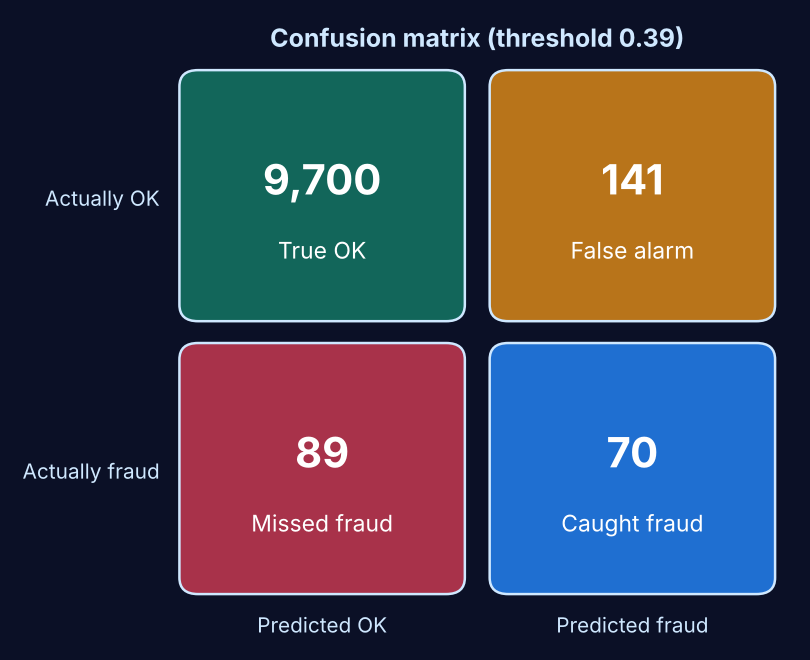
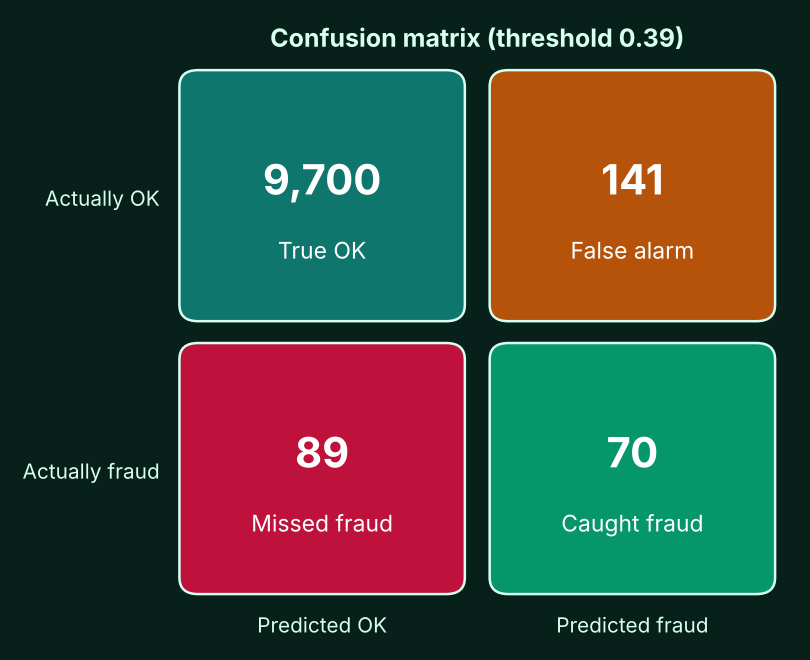
themes

diff --git a/app.py b/app.py
@@ -18,44 +18,64 @@ st.set_page_config(page_title="UPI Fraud Detector", page_icon="🛡")
 
 st.markdown("""
 <style>
+/* Secure-fintech theme: emerald + gold on deep green-black */
 .stApp {
     background:
-        radial-gradient(circle at 15% 20%, rgba(0, 240, 255, 0.16), transparent 40%),
-        radial-gradient(circle at 85% 75%, rgba(168, 85, 247, 0.20), transparent 40%),
-        linear-gradient(160deg, #050816, #0b1026 50%, #120a2e);
+        radial-gradient(circle at 12% 18%, rgba(0, 229, 160, 0.14), transparent 42%),
+        radial-gradient(circle at 88% 82%, rgba(255, 183, 3, 0.10), transparent 40%),
+        linear-gradient(165deg, #030d0a, #06201a 55%, #0a1a14);
     background-attachment: fixed;
 }
+/* dotted pattern */
 .stApp::before {
     content: ""; position: fixed; inset: 0; pointer-events: none;
-    background-image:
-        linear-gradient(rgba(0, 240, 255, 0.06) 1px, transparent 1px),
-        linear-gradient(90deg, rgba(0, 240, 255, 0.06) 1px, transparent 1px);
-    background-size: 44px 44px;
-    animation: gridMove 12s linear infinite;
+    background-image: radial-gradient(rgba(0, 229, 160, 0.22) 1px, transparent 1.4px);
+    background-size: 28px 28px;
+    opacity: 0.55;
 }
-@keyframes gridMove { from { background-position: 0 0; } to { background-position: 44px 44px; } }
+/* security scan line moving down the page */
+.stApp::after {
+    content: ""; position: fixed; left: 0; right: 0; top: -6vh; height: 90px; pointer-events: none;
+    background: linear-gradient(180deg, transparent, rgba(0, 229, 160, 0.10), transparent);
+    border-bottom: 1px solid rgba(0, 229, 160, 0.30);
+    animation: scan 7s linear infinite;
+}
+@keyframes scan { from { transform: translateY(0); } to { transform: translateY(112vh); } }
 [data-testid="stHeader"] { background: transparent; }
+
 .banner-wrap { text-align: center; margin-bottom: 8px; }
 .banner-wrap img {
-    width: 100%; max-width: 420px; border-radius: 18px;
-    border: 1px solid rgba(0, 240, 255, 0.6);
+    width: 100%; max-width: 420px; border-radius: 20px;
+    border: 1px solid rgba(0, 229, 160, 0.55);
     animation: pulseGlow 3.5s ease-in-out infinite alternate;
 }
 @keyframes pulseGlow {
-    from { box-shadow: 0 0 15px rgba(0, 240, 255, 0.35), 0 0 40px rgba(168, 85, 247, 0.20); }
-    to   { box-shadow: 0 0 35px rgba(0, 240, 255, 0.70), 0 0 80px rgba(168, 85, 247, 0.45); }
+    from { box-shadow: 0 0 14px rgba(0, 229, 160, 0.30), 0 0 40px rgba(255, 183, 3, 0.10); }
+    to   { box-shadow: 0 0 34px rgba(0, 229, 160, 0.65), 0 0 70px rgba(255, 183, 3, 0.25); }
 }
 h1 {
     text-align: center;
-    background: linear-gradient(90deg, #00f0ff, #a855f7, #ff4ecd);
+    background: linear-gradient(90deg, #00e5a0, #7dffd6 45%, #ffd166);
     -webkit-background-clip: text; -webkit-text-fill-color: transparent;
 }
-.tagline { text-align: center; color: #9fb3d9; margin-top: -10px; margin-bottom: 18px; }
-.stButton > button {
-    background: linear-gradient(90deg, #00c6ff, #7b2ff7); color: white; border: none;
-    border-radius: 12px; padding: 10px 28px; font-weight: 700; transition: all 0.25s ease;
+.tagline { text-align: center; color: #a7c7be; margin-top: -10px; margin-bottom: 18px; }
+.status { text-align: center; margin-bottom: 14px; }
+.status span {
+    display: inline-block; padding: 3px 14px; border-radius: 999px; font-size: 0.8rem; font-weight: 700;
+    color: #00e5a0; border: 1px solid rgba(0, 229, 160, 0.5); background: rgba(0, 229, 160, 0.08);
 }
-.stButton > button:hover { transform: translateY(-2px); box-shadow: 0 0 22px rgba(0, 198, 255, 0.8); color: white; }
+
+/* tabs: green accent */
+button[data-baseweb="tab"][aria-selected="true"] { color: #00e5a0 !important; }
+[data-baseweb="tab-highlight"] { background-color: #00e5a0 !important; }
+
+.stButton > button {
+    background: linear-gradient(90deg, #00c98a, #0aa6a0); color: #031510; border: none;
+    border-radius: 12px; padding: 10px 28px; font-weight: 800; transition: all 0.25s ease;
+}
+.stButton > button:hover {
+    transform: translateY(-2px); box-shadow: 0 0 22px rgba(0, 229, 160, 0.75); color: #031510;
+}
 .gauge-box { text-align: center; margin-top: 10px; }
 .gauge {
     width: 170px; height: 170px; border-radius: 50%;
@@ -63,19 +83,19 @@ h1 {
     display: grid; place-items: center; margin: 0 auto 8px auto; box-shadow: 0 0 30px var(--c);
 }
 .gauge-inner {
-    width: 132px; height: 132px; border-radius: 50%; background: #0b1026;
+    width: 132px; height: 132px; border-radius: 50%; background: #06201a;
     display: grid; place-items: center; font-size: 2rem; font-weight: 800; color: var(--c);
 }
 .verdict { text-align: center; font-size: 1.3rem; font-weight: 700; margin: 6px 0 10px 0; }
 .glass {
-    background: rgba(255, 255, 255, 0.06); border: 1px solid rgba(255, 255, 255, 0.14);
+    background: rgba(255, 255, 255, 0.05); border: 1px solid rgba(0, 229, 160, 0.20);
     border-radius: 16px; padding: 16px 20px; backdrop-filter: blur(10px); margin-top: 14px;
 }
 .glass h4 { margin: 0 0 10px 0; }
 .chip {
     display: inline-block; padding: 4px 12px; margin: 3px 4px 3px 0; border-radius: 999px;
     font-size: 0.85rem; font-weight: 600;
-    background: rgba(255, 82, 82, 0.15); color: #ff8a8a; border: 1px solid #ff5252;
+    background: rgba(255, 183, 3, 0.12); color: #ffd166; border: 1px solid #ffb703;
 }
 </style>
 """, unsafe_allow_html=True)
@@ -107,6 +127,9 @@ if BANNER.exists():
                 unsafe_allow_html=True)
 st.title("UPI Fraud Detector")
 st.markdown('<p class="tagline">Score UPI transactions for fraud risk, one at a time or in bulk.</p>',
+            unsafe_allow_html=True)
+
+st.markdown('<div class="status"><span>🟢 MODEL ONLINE · SYNTHETIC DATA</span></div>',
             unsafe_allow_html=True)
 
 tab_check, tab_batch, tab_insights = st.tabs(

diff --git a/charts.py b/charts.py
@@ -5,17 +5,18 @@ import matplotlib.pyplot as plt
 import numpy as np
 from sklearn.metrics import precision_recall_curve
 
-BG, FG = "#0b1026", "#cfe8ff"
-CYAN, PURPLE, PINK, GREEN, RED = "#00f0ff", "#a855f7", "#ff4ecd", "#2ee59d", "#ff4d6d"
+BG, FG = "#08201a", "#d6fff1"
+EMERALD, AMBER, GOLD, GREEN, RED = "#00e5a0", "#ffb703", "#ffd166", "#2ee59d", "#ff4d6d"
 
 
 def _fig(w=6.4, h=4.0):
     fig, ax = plt.subplots(figsize=(w, h))
     fig.patch.set_facecolor(BG)
     ax.set_facecolor(BG)
+    ax.set_axisbelow(True)
     ax.tick_params(colors=FG)
     for s in ax.spines.values():
-        s.set_color("#2a3560")
+        s.set_color("#1f4a3f")
     ax.xaxis.label.set_color(FG)
     ax.yaxis.label.set_color(FG)
     ax.title.set_color(FG)
@@ -25,10 +26,10 @@ def _fig(w=6.4, h=4.0):
 def importance_fig(importances):
     imp = importances.sort_values()
     fig, ax = _fig()
-    ax.barh(imp.index, imp.values, color=CYAN, edgecolor=PURPLE)
+    ax.barh(imp.index, imp.values, color=EMERALD, edgecolor=AMBER)
     ax.set_title("Which features detect fraud?", fontweight="bold")
     ax.set_xlabel("Importance")
-    ax.grid(axis="x", color="#1d2650")
+    ax.grid(axis="x", color="#12372e")
     fig.tight_layout()
     return fig
 
@@ -37,16 +38,16 @@ def confusion_fig(m, threshold):
     """2x2 grid; each cell has its own colour so small numbers stay readable."""
     from matplotlib.patches import FancyBboxPatch
     cells = [  # (row, col, label, value, colour)
-        (0, 0, "True OK", m["tn"], "#12665a"),
-        (0, 1, "False alarm", m["fp"], "#b8741a"),
-        (1, 0, "Missed fraud", m["fn"], "#a8324a"),
-        (1, 1, "Caught fraud", m["tp"], "#1f6fd1"),
+        (0, 0, "True OK", m["tn"], "#0f766e"),
+        (0, 1, "False alarm", m["fp"], "#b45309"),
+        (1, 0, "Missed fraud", m["fn"], "#be123c"),
+        (1, 1, "Caught fraud", m["tp"], "#059669"),
     ]
     fig, ax = _fig(5.4, 4.4)
     for r, c, label, value, color in cells:
         ax.add_patch(FancyBboxPatch((c + 0.04, 1 - r + 0.04), 0.92, 0.92,
                                     boxstyle="round,pad=0.0,rounding_size=0.06",
-                                    facecolor=color, edgecolor="#cfe8ff", linewidth=1.2))
+                                    facecolor=color, edgecolor="#d6fff1", linewidth=1.2))
         ax.text(c + 0.5, 1 - r + 0.56, f"{value:,}", ha="center", va="center",
                 color="white", fontsize=20, fontweight="bold")
         ax.text(c + 0.5, 1 - r + 0.30, label, ha="center", va="center",
@@ -67,16 +68,16 @@ def pr_fig(y_true, p, threshold):
     prec, rec, thr = precision_recall_curve(y_true, p)
     idx = int(np.argmin(np.abs(thr - threshold)))
     fig, ax = _fig()
-    ax.plot(rec, prec, color=CYAN, linewidth=2.5)
-    ax.fill_between(rec, prec, color=CYAN, alpha=0.12)
-    ax.scatter([rec[idx]], [prec[idx]], color=PINK, s=90, zorder=5,
+    ax.plot(rec, prec, color=EMERALD, linewidth=2.5)
+    ax.fill_between(rec, prec, color=EMERALD, alpha=0.12)
+    ax.scatter([rec[idx]], [prec[idx]], color=AMBER, s=90, zorder=5,
                label=f"threshold {threshold:.2f}")
     ax.set_xlabel("Recall (frauds caught)")
     ax.set_ylabel("Precision (alerts that are real)")
     ax.set_title("Precision-Recall trade-off", fontweight="bold")
     ax.set_ylim(0, 1.02)
-    ax.grid(color="#1d2650")
-    leg = ax.legend(facecolor=BG, edgecolor="#2a3560")
+    ax.grid(color="#12372e")
+    leg = ax.legend(facecolor=BG, edgecolor="#1f4a3f")
     for t in leg.get_texts():
         t.set_color(FG)
     fig.tight_layout()
